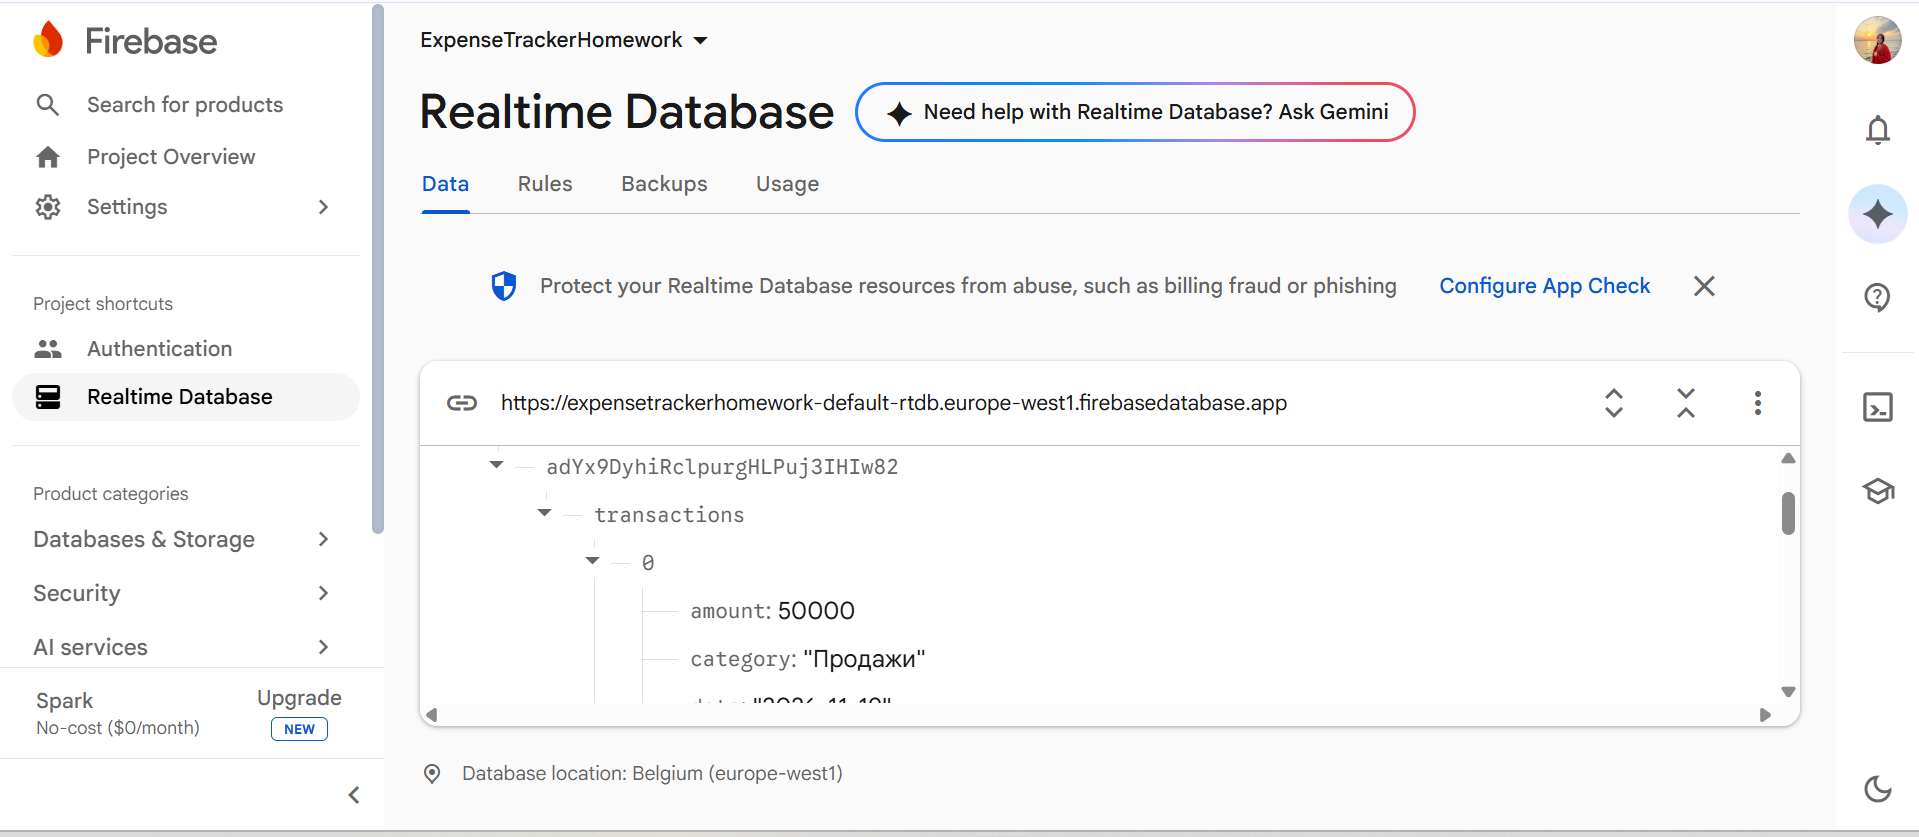
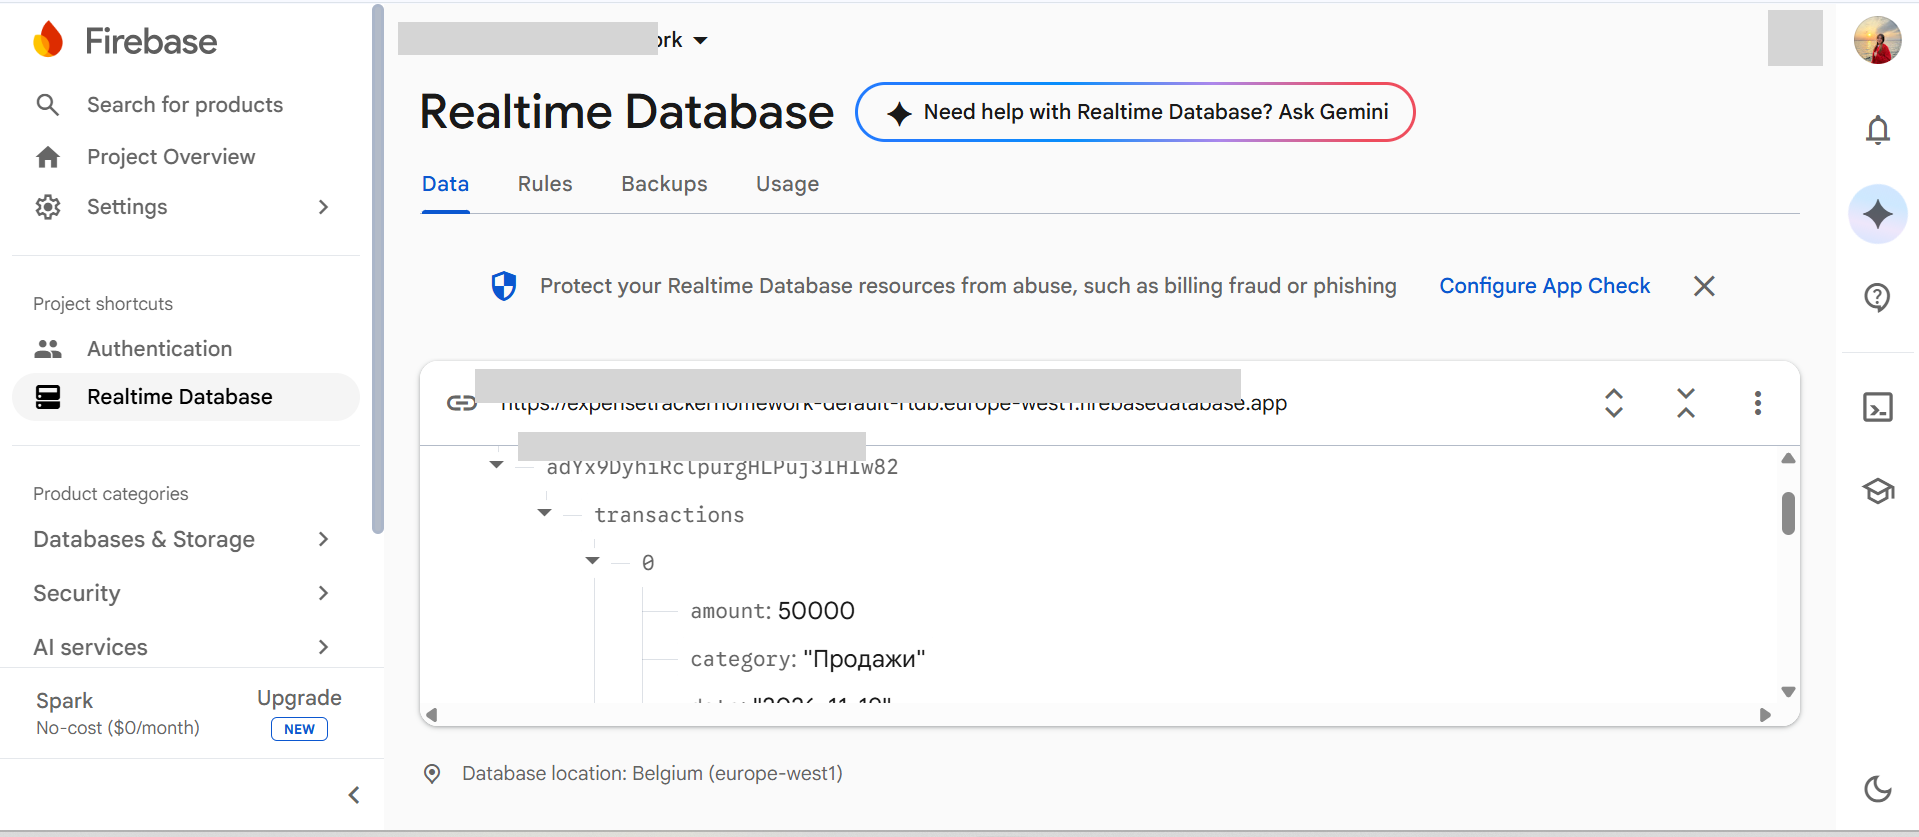
Add all nine application screenshots

Changed region(s): [[0.246, 0.4349, 0.6456, 0.5591], [0.1845, 0.0, 0.3689, 0.0932], [0.9224, 0.0, 0.9531, 0.0932]]

diff --git a/README.md b/README.md
@@ -1,8 +1,8 @@
 <div align="center">
 
-# ExpenseTracker
+# ExpenseTracker Rose
 
-**Личные финансы**
+**Личные финансы в розовых тонах**
 
 Учитывай доходы и расходы · Анализируй · Планируй
 
@@ -18,7 +18,7 @@
 
 ## О проекте
 
-**ExpenseTracker** — приложение для учёта личных финансов на Python с графическим интерфейсом в пастельных розовых тонах. Оно помогает отслеживать доходы и расходы, контролировать баланс и анализировать финансовые операции.
+**ExpenseTracker Rose** — приложение для учёта личных финансов на Python с графическим интерфейсом в пастельных розовых тонах. Оно помогает отслеживать доходы и расходы, контролировать баланс и анализировать финансовые операции.
 
 ## Возможности
 
@@ -33,29 +33,47 @@
 
 ## Интерфейс приложения
 
-### Главное окно приложения
+### Учёт доходов и расходов
 
 ![Главное окно приложения](screenshots/main.png)
 
-### Диаграммы доходов и расходов
-
-![Диаграммы доходов и расходов](screenshots/charts.png)
-
-### Форма добавления новой операции
+*Рисунок 1 — Главное окно приложения*
 
 ![Форма добавления новой операции](screenshots/add_operation.png)
 
-### Статистика по операциям
+*Рисунок 2 — Форма добавления новой операции*
 
 ![Статистика по операциям](screenshots/statistics.png)
 
-### Успешная отправка данных в Firebase
+*Рисунок 3 — Статистика по операциям*
+
+### Визуализация финансовых данных
+
+![Диаграммы доходов и расходов](screenshots/charts.png)
+
+*Рисунок 4 — Диаграммы доходов и расходов*
+
+### Облачная синхронизация Firebase
+
+![Окно подключения Firebase](screenshots/cloud_login.png)
+
+*Рисунок 5 — Окно подключения Firebase*
+
+![Успешная авторизация Firebase](screenshots/cloud_auth.png)
+
+*Рисунок 6 — Успешная авторизация Firebase*
 
 ![Успешная отправка данных в Firebase](screenshots/cloud_upload.png)
 
-### Успешная загрузка данных из Firebase
+*Рисунок 7 — Успешная отправка данных в Firebase*
+
+![Записи в Firebase Realtime Database](screenshots/firebase_database.png)
+
+*Рисунок 8 — Записи в Firebase Realtime Database*
 
 ![Успешная загрузка данных из Firebase](screenshots/cloud_download.png)
+
+*Рисунок 9 — Успешная загрузка данных из Firebase*
 
 ## Быстрый запуск
 
@@ -91,6 +109,7 @@ ExpenseTracker/
 ├── cloud.py             # Firebase REST API
 ├── firebase.rules.json  # Правила доступа
 ├── requirements.txt     # Зависимости
+├── screenshots/         # Скриншоты приложения
 └── tests/               # Тесты бизнес-логики
 ```
 
